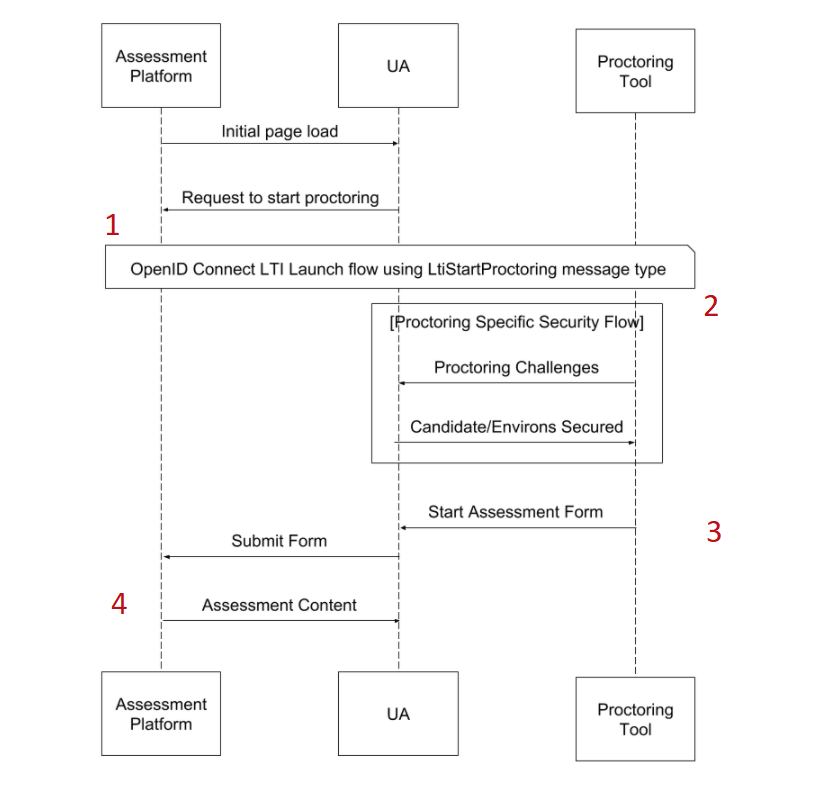
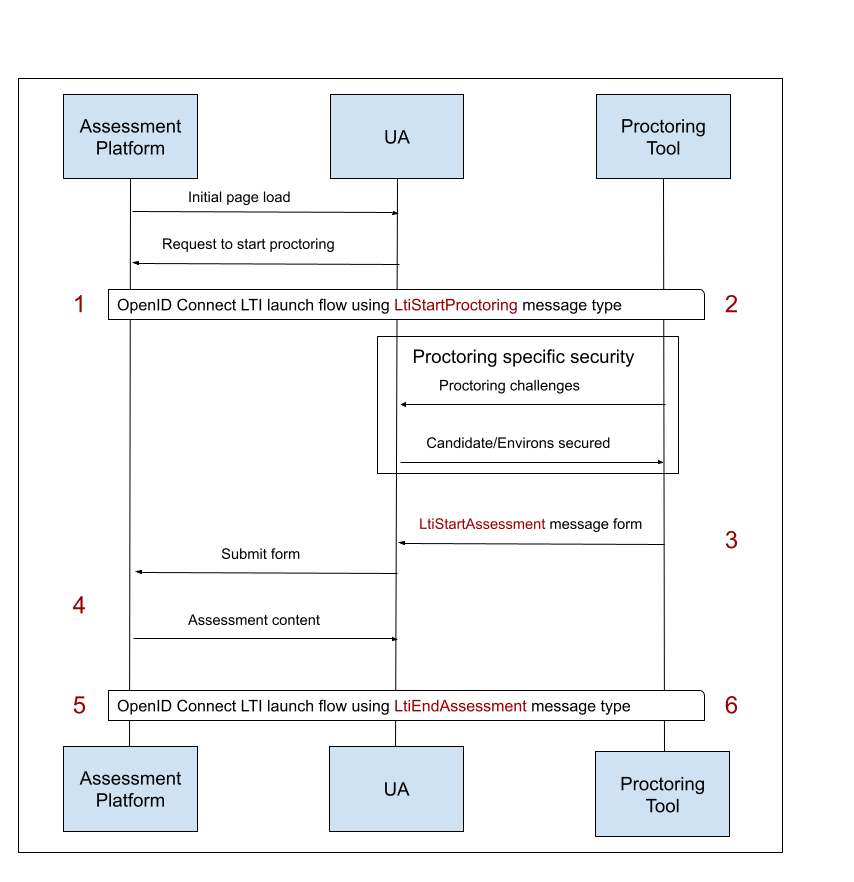
feat: added submission review documentation fix: proctoring doc links

diff --git a/docs/libraries/lib-lti1p3-submission-review/doc/message/submission-review-workflow.md b/docs/libraries/lib-lti1p3-submission-review/doc/message/submission-review-workflow.md
@@ -1,0 +1,166 @@
+# Submission Review Message Workflow
+
+> How to [perform secured submission review message interactions](https://www.imsglobal.org/spec/lti-sr/v1p0), between platforms and tools.
+
+## Workflow
+
+You can find below a submission review message workflow diagram, with steps numbers:
+
+![Submission Review Workflow](../images/submission-review-workflow.png)
+
+Each step will be detailed below, from both platform and tool perspectives.
+
+## 1 - Platform side: LtiSubmissionReviewRequest message generation
+
+You can find below required steps to generate a LtiSubmissionReviewRequest message, needed only if you're acting as a platform.
+
+### Create the message
+
+As a platform, you can create a [LtiSubmissionReviewRequest message](https://www.imsglobal.org/spec/lti-sr/v1p0) for a tool within the context of a registration.
+
+Platforms can drive the tool behaviour on submission review interactions by providing [claims](https://www.imsglobal.org/spec/lti-sr/v1p0#ltisubmissionreviewrequest-claims) in this message.
+
+You can use the [SubmissionReviewLaunchRequestBuilder](https://github.com/oat-sa/lib-lti1p3-submission-review/blob/main/src/Message/Launch/Builder/SubmissionReviewLaunchRequestBuilder.php) to create the message:
+
+```php
+<?php
+
+use OAT\Library\Lti1p3Core\Message\Payload\Claim\AgsClaim;
+use OAT\Library\Lti1p3Core\Message\Payload\Claim\ForUserClaim;
+use OAT\Library\Lti1p3Core\Registration\RegistrationRepositoryInterface;
+use OAT\Library\Lti1p3SubmissionReview\Message\Launch\Builder\SubmissionReviewLaunchRequestBuilder;
+
+// Create mandatory submission review claims
+$agsClaim = new AgsClaim(...);
+$forUserClaim = new ForUserClaim(...);
+
+// Create a builder instance
+$builder = new SubmissionReviewLaunchRequestBuilder();
+
+// Get related registration of the launch
+/** @var RegistrationRepositoryInterface $registrationRepository */
+$registration = $registrationRepository->find(...);
+
+// Build LtiSubmissionReviewRequest message
+$message = $builder->buildSubmissionReviewLaunchRequest(
+    $agsClaim,                                                     // [required] AGS claim
+    $forUserClaim,                                                 // [required] for_user claim
+    $registration,                                                 // [required] related registration
+    'loginHint',                                                   // [required] login hint that will be used afterwards by the platform to perform authentication
+    'http://tool.com/submission-review',                           // [optional] tool url where to send the LtiSubmissionReviewRequest message (if none provided will use default tool launch url)
+    null,                                                          // [optional] will use the registration default deployment id, but you can pass a specific one
+    ['http://purl.imsglobal.org/vocab/lis/v2/membership#Learner'], // [optional] roles
+    ['myCustomClaim' => 'myCustomValue']                           // [optional] supplementary claims if needed
+);
+```
+
+Since [AGS line items can be coupled to LTI resource links](https://www.imsglobal.org/spec/lti-sr/v1p0#coupled-line-item-0), you can also use the `buildLtiResourceLinkSubmissionReviewLaunchRequest()` method to ease the message creation: 
+
+```php
+<?php
+
+use OAT\Library\Lti1p3Core\Message\Payload\Claim\AgsClaim;
+use OAT\Library\Lti1p3Core\Message\Payload\Claim\ForUserClaim;
+use OAT\Library\Lti1p3Core\Registration\RegistrationRepositoryInterface;
+use OAT\Library\Lti1p3Core\Resource\LtiResourceLink\LtiResourceLink;
+use OAT\Library\Lti1p3SubmissionReview\Message\Launch\Builder\SubmissionReviewLaunchRequestBuilder;
+
+// Create a resource link
+$resourceLink = new LtiResourceLink('resourceLinkIdentifier');
+
+// Create mandatory submission review claims
+$agsClaim = new AgsClaim(...);
+$forUserClaim = new ForUserClaim(...);
+
+// Create a builder instance
+$builder = new SubmissionReviewLaunchRequestBuilder();
+
+// Get related registration of the launch
+/** @var RegistrationRepositoryInterface $registrationRepository */
+$registration = $registrationRepository->find(...);
+
+// Build LtiSubmissionReviewRequest message
+$message = $builder->buildLtiResourceLinkSubmissionReviewLaunchRequest(
+    $resourceLink,                                                 // [required] resource link
+    $agsClaim,                                                     // [required] AGS claim
+    $forUserClaim,                                                 // [required] for_user claim
+    $registration,                                                 // [required] related registration
+    'loginHint',                                                   // [required] login hint that will be used afterwards by the platform to perform authentication
+    'http://tool.com/submission-review',                           // [optional] tool url where to send the LtiSubmissionReviewRequest message (if none provided will use default tool launch url)
+    null,                                                          // [optional] will use the registration default deployment id, but you can pass a specific one
+    ['http://purl.imsglobal.org/vocab/lis/v2/membership#Learner'], // [optional] roles
+    ['myCustomClaim' => 'myCustomValue']                           // [optional] supplementary claims if needed
+);
+```
+
+### Launch the message
+
+As a result of the build, you get a [LtiMessageInterface](https://github.com/oat-sa/lib-lti1p3-core/blob/master/src//Message/LtiMessageInterface.php) instance that has to be used in the following ways:
+
+```php
+<?php
+
+use OAT\Library\Lti1p3Core\Message\LtiMessageInterface;
+
+/** @var LtiMessageInterface $message */
+
+// Main message properties you can use as you want to offer the launch to the platform users
+echo $message->getUrl();                // url of the launch
+echo $message->getParameters()->all();  // array of parameters of the launch
+
+// Or use those helpers methods to ease the launch interactions
+echo $message->toUrl();                // url with launch parameters as query parameters
+echo $message->toHtmlLink('click me'); // HTML link, where href is the output url
+echo $message->toHtmlRedirectForm();   // HTML hidden form, with possibility of auto redirection
+```
+
+### Implement OpenId Connect launch flow
+
+Like any platform originating message, when the LtiSubmissionReviewRequest message is launched, an [OIDC flow](https://www.imsglobal.org/spec/security/v1p0/#platform-originating-messages) will start between the tool and the platform.
+
+The underlying core library offers everything you need to securely implement this flow, as documented in the [platform originating messages documentation](https://github.com/oat-sa/lib-lti1p3-core/blob/master/doc/message/platform-originating-messages.md).
+
+## 2 - Tool side: LtiSubmissionReviewRequest message handling
+
+You can find below required steps to handle a LtiSubmissionReviewRequest message, needed only if you're acting as a tool.
+
+### Validate the message 
+
+As a tool, you'll receive an HTTP request containing the [LtiSubmissionReviewRequest message](https://www.imsglobal.org/spec/lti-sr/v1p0), generated by the platform, received after OIDC flow completion.
+
+You can use the [ToolLaunchValidator](https://github.com/oat-sa/lib-lti1p3-core/blob/master/src/Message/Launch/Validator/Tool/ToolLaunchValidator.php) to validate it:
+
+```php
+<?php
+
+use OAT\Library\Lti1p3Core\Message\Launch\Validator\Tool\ToolLaunchValidator;
+use OAT\Library\Lti1p3Core\Registration\RegistrationRepositoryInterface;
+use OAT\Library\Lti1p3Core\Security\Nonce\NonceRepositoryInterface;
+use Psr\Http\Message\ServerRequestInterface;
+
+/** @var RegistrationRepositoryInterface $registrationRepository */
+$registrationRepository = ...
+
+/** @var NonceRepositoryInterface $nonceRepository */
+$nonceRepository = ...
+
+/** @var ServerRequestInterface $request */
+$request = ...
+
+// Create the validator
+$validator = new ToolLaunchValidator($registrationRepository, $nonceRepository);
+
+// Perform validation
+$result = $validator->validatePlatformOriginatingLaunch($request);
+
+if (!$result->hasError()) {
+    // You can access the related AGS line item
+    $lineItemUrl = $result->getPayload()->getAgs()->getLineItemUrl();
+    
+    // You can access the user details for whom is done the submission review
+    $user = $result->getPayload()->getForUser();
+    
+    // Then implement your logic to handle the LtiSubmissionReviewRequest message and offer submission review
+}
+```
+**Note**: more details about platform originating messages on tool side validation can be found in the [platform originating messages documentation](https://github.com/oat-sa/lib-lti1p3-core/blob/master/doc/message/platform-originating-messages.md#4---tool-side-launch-validation).

diff --git a/docs/index.md b/docs/index.md
@@ -11,14 +11,15 @@
 
 PHP frameworks agnostic (only relying on [PSR](https://www.php-fig.org/psr/)) LTI 1.3 libraries.
 
-| Library                                                                    | Latest version                                                                                                                                                               | Platform                                     | Tool                                          | Documentation                                                                                  |
-|----------------------------------------------------------------------------|------------------------------------------------------------------------------------------------------------------------------------------------------------------------------|----------------------------------------------|-----------------------------------------------|------------------------------------------------------------------------------------------------|
-| [:fontawesome-brands-github: Core library](https://github.com/oat-sa/lib-lti1p3-core)                  | [![Latest Version](https://img.shields.io/github/tag/oat-sa/lib-lti1p3-core.svg?style=flat&label=release)](https://github.com/oat-sa/lib-lti1p3-core/tags)                   | :fontawesome-solid-check-circle:{ .success } | :fontawesome-solid-check-circle:{ .success }  | [:fontawesome-solid-book-reader:  Documentation](libraries/lib-lti1p3-core/README.md)          |
-| [:fontawesome-brands-github: AGS library](https://github.com/oat-sa/lib-lti1p3-ags)                    | [![Latest Version](https://img.shields.io/github/tag/oat-sa/lib-lti1p3-ags.svg?style=flat&label=release)](https://github.com/oat-sa/lib-lti1p3-ags/tags)                     | :fontawesome-solid-check-circle:{ .success } | :fontawesome-solid-check-circle:{ .success }  | [:fontawesome-solid-book-reader:  Documentation](libraries/lib-lti1p3-ags/README.md)           |
-| [:fontawesome-brands-github: Basic outcome library](https://github.com/oat-sa/lib-lti1p3-basic-outcome)| [![Latest Version](https://img.shields.io/github/tag/oat-sa/lib-lti1p3-basic-outcome.svg?style=flat&label=release)](https://github.com/oat-sa/lib-lti1p3-basic-outcome/tags) | :fontawesome-solid-check-circle:{ .success } | :fontawesome-solid-check-circle:{ .success }  | [:fontawesome-solid-book-reader:  Documentation](libraries/lib-lti1p3-basic-outcome/README.md) |
-| [:fontawesome-brands-github: Deep linking library](https://github.com/oat-sa/lib-lti1p3-deep-linking)  | [![Latest Version](https://img.shields.io/github/tag/oat-sa/lib-lti1p3-deep-linking.svg?style=flat&label=release)](https://github.com/oat-sa/lib-lti1p3-deep-linking/tags)   | :fontawesome-solid-check-circle:{ .success } | :fontawesome-solid-check-circle:{ .success }  | [:fontawesome-solid-book-reader:  Documentation](libraries/lib-lti1p3-deep-linking/README.md)  |
-| [:fontawesome-brands-github: NRPS library](https://github.com/oat-sa/lib-lti1p3-nrps)                  | [![Latest Version](https://img.shields.io/github/tag/oat-sa/lib-lti1p3-nrps.svg?style=flat&label=release)](https://github.com/oat-sa/lib-lti1p3-nrps/tags)                   | :fontawesome-solid-check-circle:{ .success } | :fontawesome-solid-check-circle:{ .success }  | [:fontawesome-solid-book-reader:  Documentation](libraries/lib-lti1p3-nrps/README.md)          |
-| [:fontawesome-brands-github: Proctoring library](https://github.com/oat-sa/lib-lti1p3-proctoring)      | [![Latest Version](https://img.shields.io/github/tag/oat-sa/lib-lti1p3-proctoring.svg?style=flat&label=release)](https://github.com/oat-sa/lib-lti1p3-proctoring/tags)       | :fontawesome-solid-check-circle:{ .success } | :fontawesome-solid-check-circle:{ .success }  | [:fontawesome-solid-book-reader:  Documentation](libraries/lib-lti1p3-proctoring/README.md)    |
+| Library                                                                                                         | Latest version                                                                                                                                                                       | Platform                                     | Tool                                          | Documentation                                                                                      |
+|-----------------------------------------------------------------------------------------------------------------|--------------------------------------------------------------------------------------------------------------------------------------------------------------------------------------|----------------------------------------------|-----------------------------------------------|----------------------------------------------------------------------------------------------------|
+| [:fontawesome-brands-github: Core library](https://github.com/oat-sa/lib-lti1p3-core)                           | [![Latest Version](https://img.shields.io/github/tag/oat-sa/lib-lti1p3-core.svg?style=flat&label=release)](https://github.com/oat-sa/lib-lti1p3-core/tags)                           | :fontawesome-solid-check-circle:{ .success } | :fontawesome-solid-check-circle:{ .success }  | [:fontawesome-solid-book-reader:  Documentation](libraries/lib-lti1p3-core/README.md)              |
+| [:fontawesome-brands-github: AGS library](https://github.com/oat-sa/lib-lti1p3-ags)                             | [![Latest Version](https://img.shields.io/github/tag/oat-sa/lib-lti1p3-ags.svg?style=flat&label=release)](https://github.com/oat-sa/lib-lti1p3-ags/tags)                             | :fontawesome-solid-check-circle:{ .success } | :fontawesome-solid-check-circle:{ .success }  | [:fontawesome-solid-book-reader:  Documentation](libraries/lib-lti1p3-ags/README.md)               |
+| [:fontawesome-brands-github: Basic outcome library](https://github.com/oat-sa/lib-lti1p3-basic-outcome)         | [![Latest Version](https://img.shields.io/github/tag/oat-sa/lib-lti1p3-basic-outcome.svg?style=flat&label=release)](https://github.com/oat-sa/lib-lti1p3-basic-outcome/tags)         | :fontawesome-solid-check-circle:{ .success } | :fontawesome-solid-check-circle:{ .success }  | [:fontawesome-solid-book-reader:  Documentation](libraries/lib-lti1p3-basic-outcome/README.md)     |
+| [:fontawesome-brands-github: Deep linking library](https://github.com/oat-sa/lib-lti1p3-deep-linking)           | [![Latest Version](https://img.shields.io/github/tag/oat-sa/lib-lti1p3-deep-linking.svg?style=flat&label=release)](https://github.com/oat-sa/lib-lti1p3-deep-linking/tags)           | :fontawesome-solid-check-circle:{ .success } | :fontawesome-solid-check-circle:{ .success }  | [:fontawesome-solid-book-reader:  Documentation](libraries/lib-lti1p3-deep-linking/README.md)      |
+| [:fontawesome-brands-github: NRPS library](https://github.com/oat-sa/lib-lti1p3-nrps)                           | [![Latest Version](https://img.shields.io/github/tag/oat-sa/lib-lti1p3-nrps.svg?style=flat&label=release)](https://github.com/oat-sa/lib-lti1p3-nrps/tags)                           | :fontawesome-solid-check-circle:{ .success } | :fontawesome-solid-check-circle:{ .success }  | [:fontawesome-solid-book-reader:  Documentation](libraries/lib-lti1p3-nrps/README.md)              |
+| [:fontawesome-brands-github: Proctoring library](https://github.com/oat-sa/lib-lti1p3-proctoring)               | [![Latest Version](https://img.shields.io/github/tag/oat-sa/lib-lti1p3-proctoring.svg?style=flat&label=release)](https://github.com/oat-sa/lib-lti1p3-proctoring/tags)               | :fontawesome-solid-check-circle:{ .success } | :fontawesome-solid-check-circle:{ .success }  | [:fontawesome-solid-book-reader:  Documentation](libraries/lib-lti1p3-proctoring/README.md)        |
+| [:fontawesome-brands-github: Submission Review library](https://github.com/oat-sa/lib-lti1p3-submission-review) | [![Latest Version](https://img.shields.io/github/tag/oat-sa/lib-lti1p3-submission-review.svg?style=flat&label=release)](https://github.com/oat-sa/lib-lti1p3-submission-review/tags) | :fontawesome-solid-check-circle:{ .success } | :fontawesome-solid-check-circle:{ .success }  | [:fontawesome-solid-book-reader:  Documentation](libraries/lib-lti1p3-submission-review/README.md) |
 
 ## Symfony bundle
 

diff --git a/docs/libraries/lib-lti1p3-proctoring/doc/message/proctoring-workflow.md b/docs/libraries/lib-lti1p3-proctoring/doc/message/proctoring-workflow.md
@@ -54,7 +54,7 @@ $message = $builder->buildStartProctoringLaunchRequest(
 
 ### Launch the message
 
-As a result of the build, you get a [LtiMessageInterface](https://github.com/oat-sa/lib-lti1p3-proctoring/blob/master/src//Message/LtiMessageInterface.php) instance that has to be used in the following ways:
+As a result of the build, you get a [LtiMessageInterface](https://github.com/oat-sa/lib-lti1p3-core/blob/master/src//Message/LtiMessageInterface.php) instance that has to be used in the following ways:
 
 ```php
 <?php
@@ -252,4 +252,109 @@ if (!$result->hasError()) {
 }
 ```
 **Note**: more details about tool originating messages on platform side validation can be found in the [tool originating messages documentation](https://github.com/oat-sa/lib-lti1p3-core/blob/master/doc/message/tool-originating-messages.md#2---platform-side-launch-validation).
+
+## 5 - Platform side: EndAssessment message generation
+
+You can find below required steps to generate an EndAssessment message, needed only if you're acting as a platform and if the tool [indicated the need to send this message](https://www.imsglobal.org/spec/proctoring/v1p0#h.j1m63z4t5l55).
+
+### Create the message
+
+As a platform, you can create a [EndAssessment message](https://www.imsglobal.org/spec/proctoring/v1p0#h.ooq616k28cwm) for a tool within the context of a registration.
+
+Platforms can drive the tool behaviour on proctoring interactions by providing [claims](https://www.imsglobal.org/spec/proctoring/v1p0#h.kg8q94dahtt0) in this message.
+
+You can use the [EndAssessmentLaunchRequestBuilder](https://github.com/oat-sa/lib-lti1p3-proctoring/blob/master/src//Message/Launch/Builder/EndAssessmentLaunchRequestBuilder.php) to create the message:
+
+```php
+<?php
+
+use OAT\Library\Lti1p3Core\Registration\RegistrationRepositoryInterface;
+use OAT\Library\Lti1p3Proctoring\Message\Launch\Builder\EndAssessmentLaunchRequestBuilder;
+
+// Create a builder instance
+$builder = new EndAssessmentLaunchRequestBuilder();
+
+// Get related registration of the launch
+/** @var RegistrationRepositoryInterface $registrationRepository */
+$registration = $registrationRepository->find(...);
+
+// Build EndAssessment message
+$message = $builder->buildEndAssessmentLaunchRequest(
+    $registration,                                                 // [required] related registration
+    'loginHint',                                                   // [required] login hint that will be used afterwards by the platform to perform authentication
+    'http://tool.com/end-assessment',                              // [optional] tool url where to send the EndAssessment message (will use tool default launch url if not provided)
+    1,                                                             // [optional] attempt number (default 1)
+    null,                                                          // [optional] will use the registration default deployment id, but you can pass a specific one
+    ['http://purl.imsglobal.org/vocab/lis/v2/membership#Learner'], // [optional] roles
+    ['myCustomClaim' => 'myCustomValue']                           // [optional] supplementary claims if needed
+);
+```
+
+**Note**: you can also use the `buildEndAssessmentLaunchErrorRequest()` method if you want to notify the tool in an easy way that an error occurred platform side.
+
+### Launch the message
+
+As a result of the build, you get a [LtiMessageInterface](https://github.com/oat-sa/lib-lti1p3-core/blob/master/src//Message/LtiMessageInterface.php) instance that has to be used in the following ways:
+
+```php
+<?php
+
+use OAT\Library\Lti1p3Core\Message\LtiMessageInterface;
+
+/** @var LtiMessageInterface $message */
+
+// Main message properties you can use as you want to offer the launch to the platform users
+echo $message->getUrl();                // url of the launch
+echo $message->getParameters()->all();  // array of parameters of the launch
+
+// Or use those helpers methods to ease the launch interactions
+echo $message->toUrl();                // url with launch parameters as query parameters
+echo $message->toHtmlLink('click me'); // HTML link, where href is the output url
+echo $message->toHtmlRedirectForm();   // HTML hidden form, with possibility of auto redirection
+```
+
+### Implement OpenId Connect launch flow
+
+Like any platform originating message, when the EndAssessment message is launched, an [OIDC flow](https://www.imsglobal.org/spec/security/v1p0/#platform-originating-messages) will start between the tool and the platform.
+
+The underlying core library offers everything you need to securely implement this flow, as documented in the [platform originating messages documentation](https://github.com/oat-sa/lib-lti1p3-core/blob/master/doc/message/platform-originating-messages.md).
+
+## 6 - Tool side: EndAssessment message handling
+
+You can find below required steps to handle a EndAssessment message, needed only if you're acting as a tool.
+
+### Validate the message
+
+As a tool, you'll receive an HTTP request containing the [EndAssessment message](https://www.imsglobal.org/spec/proctoring/v1p0#h.ooq616k28cwm), generated by the platform, received after OIDC flow completion.
+
+You can use the [ToolLaunchValidator](https://github.com/oat-sa/lib-lti1p3-core/blob/master/src/Message/Launch/Validator/Tool/ToolLaunchValidator.php) to validate it:
+
+```php
+<?php
+
+use OAT\Library\Lti1p3Core\Message\Launch\Validator\Tool\ToolLaunchValidator;
+use OAT\Library\Lti1p3Core\Registration\RegistrationRepositoryInterface;
+use OAT\Library\Lti1p3Core\Security\Nonce\NonceRepositoryInterface;
+use Psr\Http\Message\ServerRequestInterface;
+
+/** @var RegistrationRepositoryInterface $registrationRepository */
+$registrationRepository = ...
+
+/** @var NonceRepositoryInterface $nonceRepository */
+$nonceRepository = ...
+
+/** @var ServerRequestInterface $request */
+$request = ...
+
+// Create the validator
+$validator = new ToolLaunchValidator($registrationRepository, $nonceRepository);
+
+// Perform validation
+$result = $validator->validatePlatformOriginatingLaunch($request);
+
+if (!$result->hasError()) {
+    // Your logic to handle the EndAssessment message
+}
+```
+**Note**: more details about platform originating messages on tool side validation can be found in the [platform originating messages documentation](https://github.com/oat-sa/lib-lti1p3-core/blob/master/doc/message/platform-originating-messages.md#4---tool-side-launch-validation).
 

diff --git a/docs/libraries/lib-lti1p3-submission-review/README.md b/docs/libraries/lib-lti1p3-submission-review/README.md
@@ -1,0 +1,59 @@
+# TAO - LTI 1.3 Submission Review Library
+
+[![Latest Version](https://img.shields.io/github/tag/oat-sa/lib-lti1p3-submission-review.svg?style=flat&label=release)](https://github.com/oat-sa/lib-lti1p3-submission-review/tags)
+[![License GPL2](http://img.shields.io/badge/licence-GPL%202.0-blue.svg)](http://www.gnu.org/licenses/gpl-2.0.html)
+[![Build Status](https://github.com/oat-sa/lib-lti1p3-submission-review/actions/workflows/build.yaml/badge.svg?branch=main)](https://github.com/oat-sa/lib-lti1p3-submission-review/actions)
+[![Tests Coverage Status](https://coveralls.io/repos/github/oat-sa/lib-lti1p3-submission-review/badge.svg?branch=main)](https://coveralls.io/github/oat-sa/lib-lti1p3-submission-review?branch=main)
+[![Psalm Level Status](https://shepherd.dev/github/oat-sa/lib-lti1p3-submission-review/level.svg)](https://shepherd.dev/github/oat-sa/lib-lti1p3-submission-review)
+[![Packagist Downloads](http://img.shields.io/packagist/dt/oat-sa/lib-lti1p3-submission-review.svg)](https://packagist.org/packages/oat-sa/lib-lti1p3-submission-review)
+
+> PHP library for [LTI 1.3 Submission Review Service](https://www.imsglobal.org/spec/lti-sr/v1p0) implementations as [platforms and / or as tools](http://www.imsglobal.org/spec/lti/v1p3/#platforms-and-tools), based on [LTI 1.3 Core library](https://github.com/oat-sa/lib-lti1p3-core).
+
+# Table of contents
+
+- [TAO LTI 1.3 PHP framework](#tao-lti-13-php-framework)
+- [IMS](#ims)
+- [Installation](#installation)
+- [Documentation](#documentation)
+- [Tests](#tests)
+
+## TAO LTI 1.3 PHP framework
+
+This library is part of the [TAO LTI 1.3 PHP framework](https://oat-sa.github.io/doc-lti1p3/).
+
+## IMS
+
+You can find below [IMS](https://www.imsglobal.org/) related information.
+
+### Related specifications
+
+- [IMS LTI Submission Review Service](https://www.imsglobal.org/spec/lti-sr/v1p0)
+- [IMS LTI 1.3 Core](http://www.imsglobal.org/spec/lti/v1p3)
+- [IMS Security](https://www.imsglobal.org/spec/security/v1p0)
+
+## Installation
+
+```console
+$ composer require oat-sa/lib-lti1p3-submission-review
+```
+
+## Documentation
+
+You can find below the library documentation, presented by topics.
+
+### Quick start
+
+- how to [configure the underlying LTI 1.3 Core library](../lib-lti1p3-core/doc/quickstart/configuration.md)
+
+### Messages
+
+- how to [implement the submission review message workflow (as platform and / or tool)](doc/message/submission-review-workflow.md)
+
+## Tests
+
+To run tests:
+
+```console
+$ vendor/bin/phpunit
+```
+**Note**: see [phpunit.xml.dist](phpunit.xml.dist) for available test suites.
